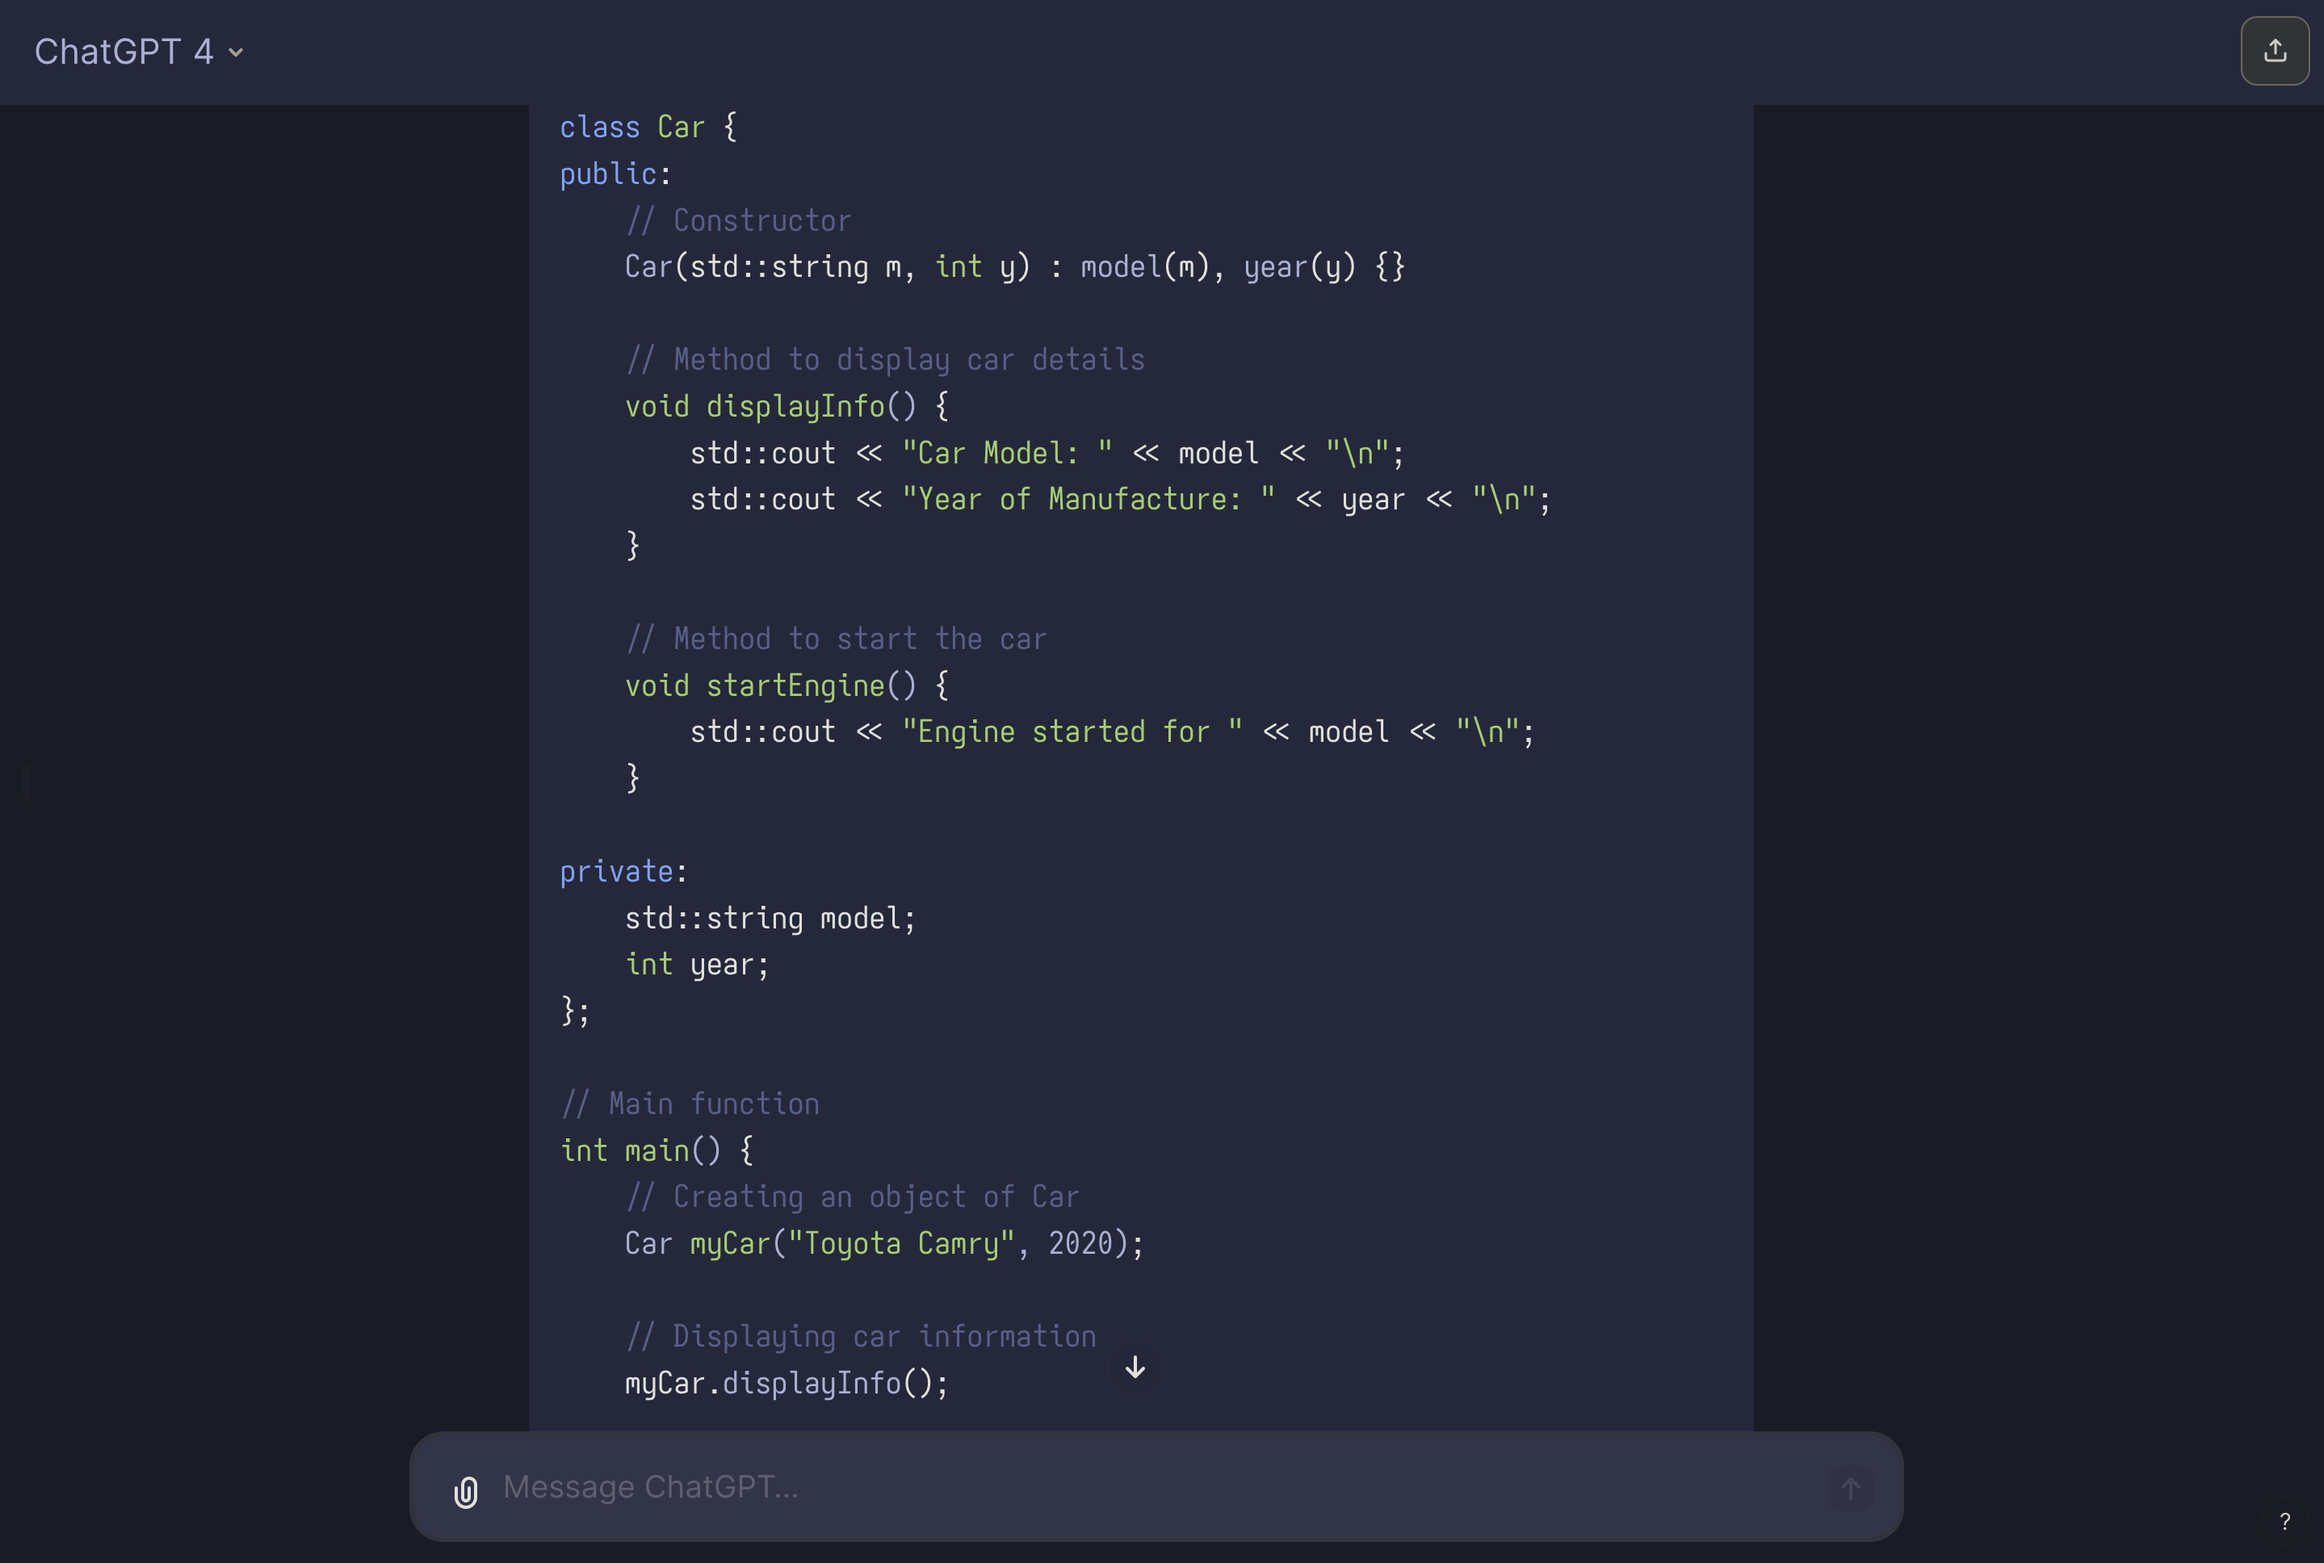
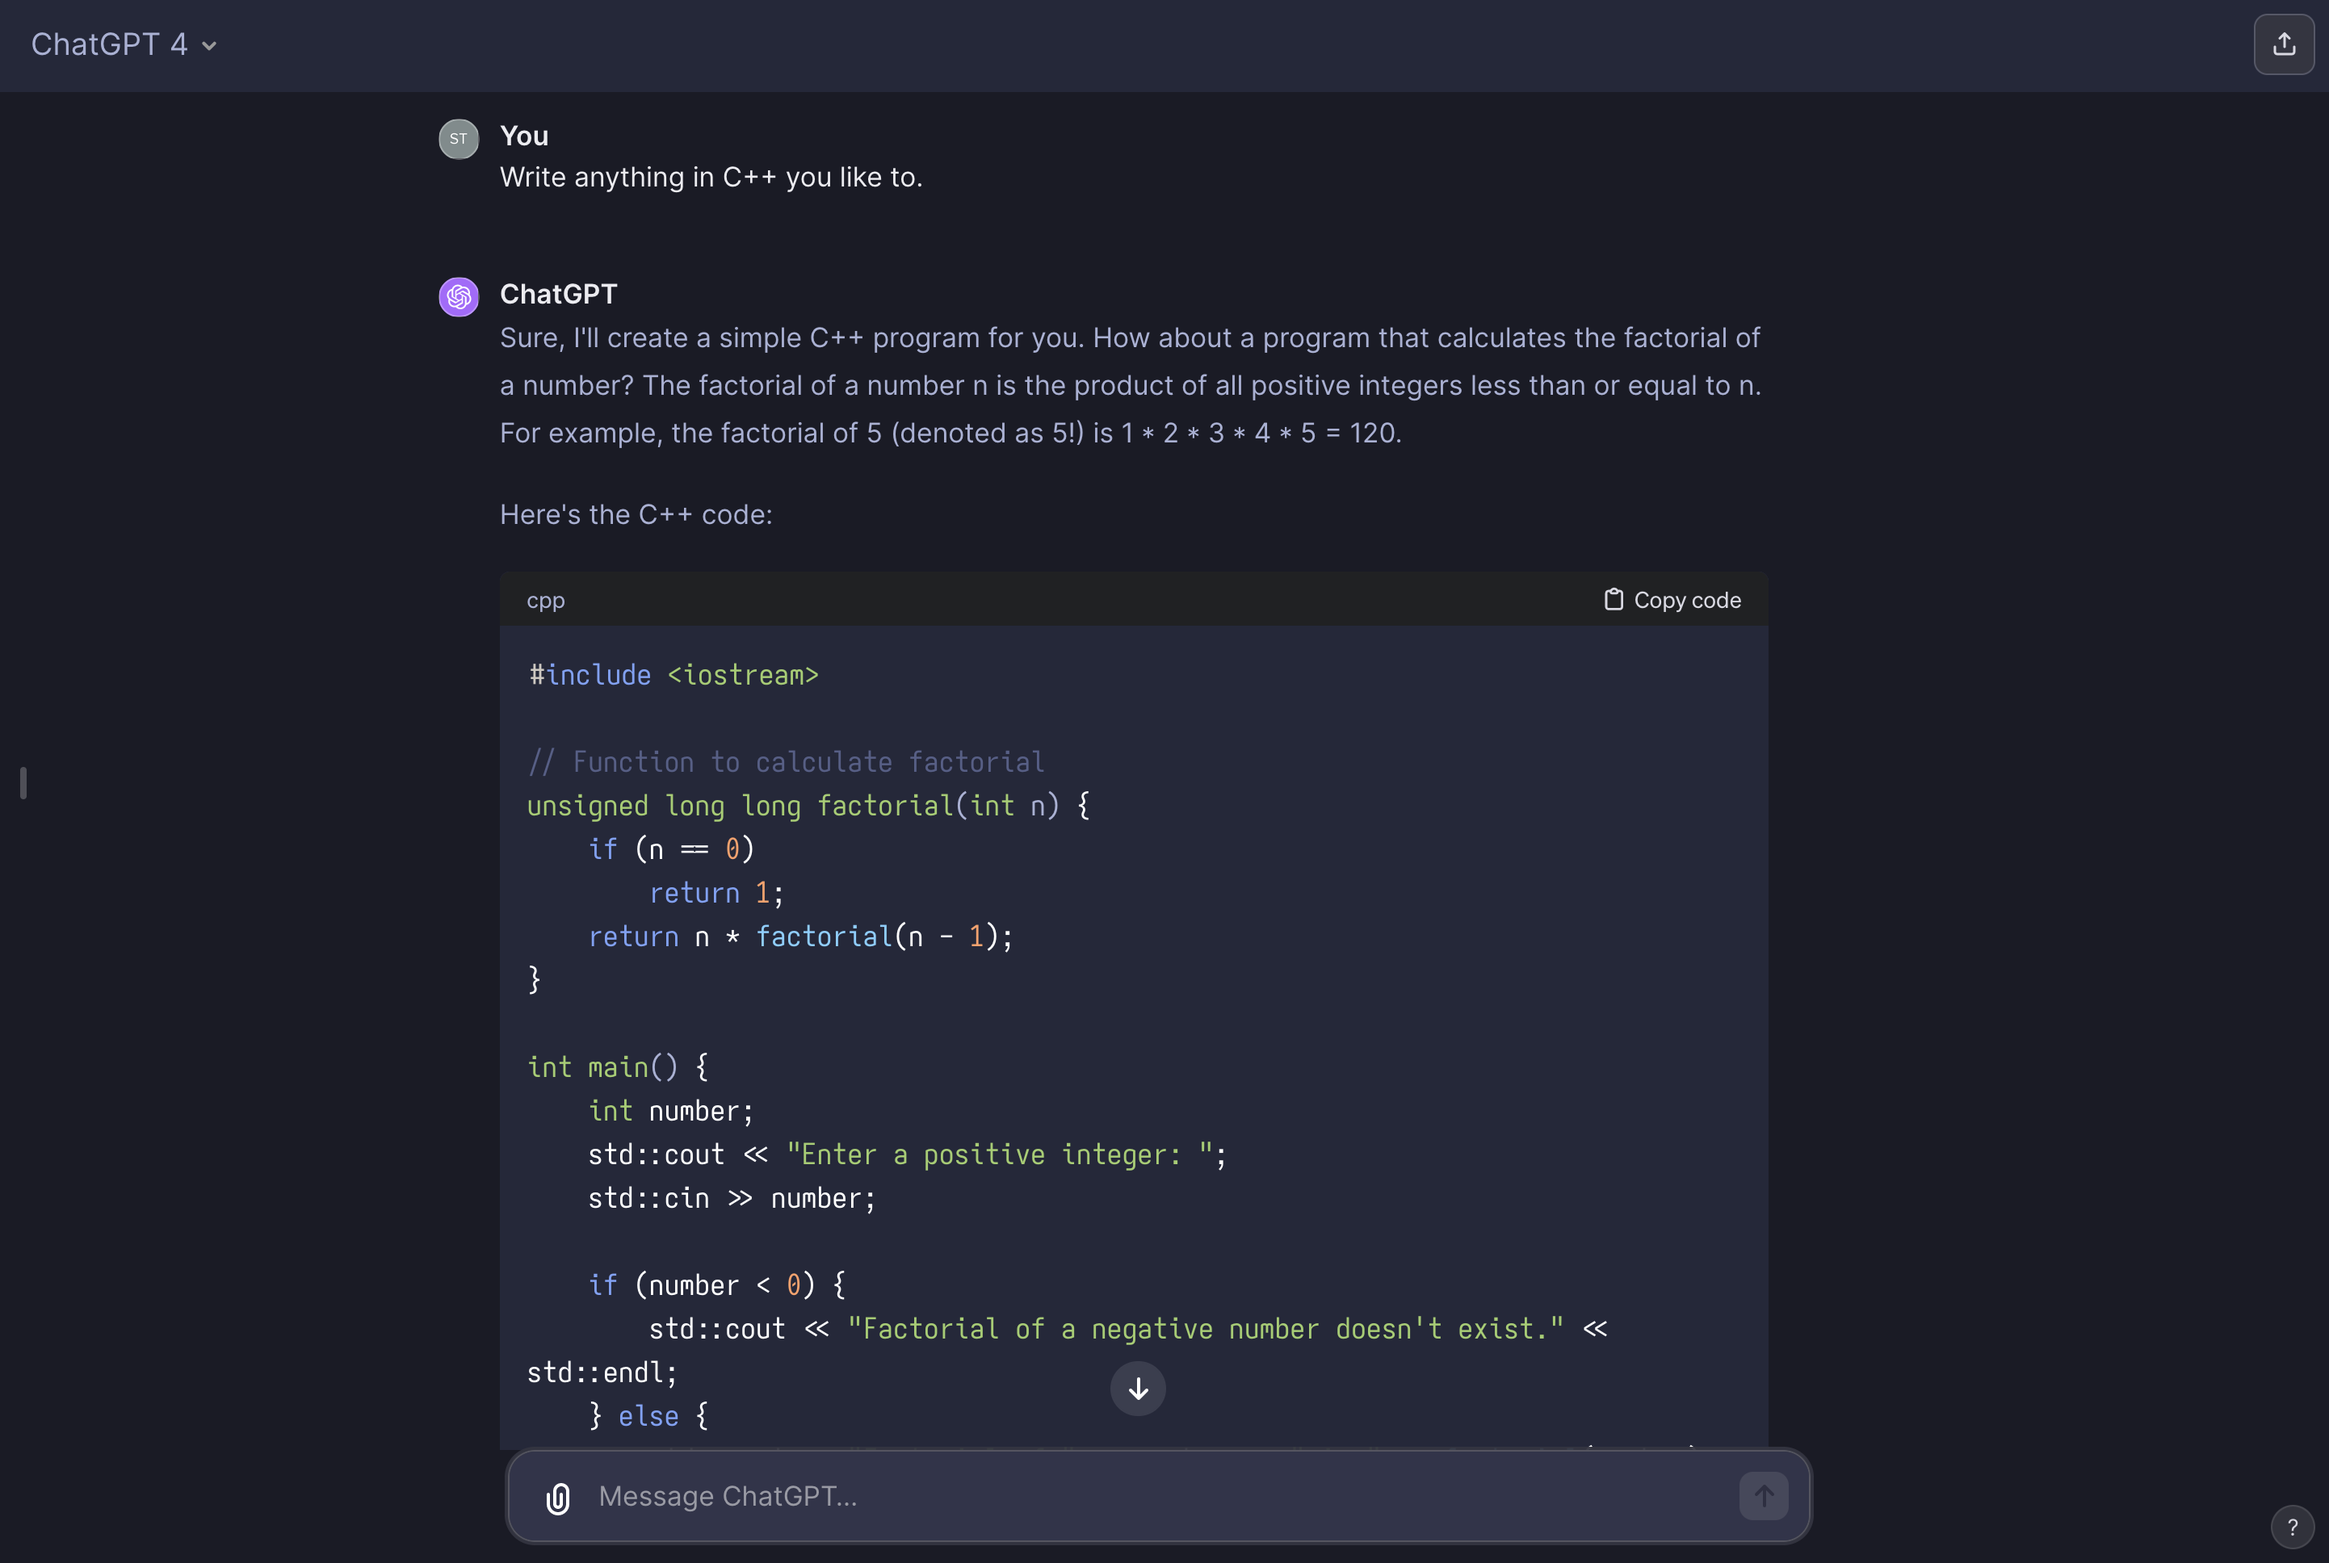
Improve layout for readability
Update README

Update layout

Update preview.png
Update preview.png

diff --git a/style.css b/style.css
@@ -8,14 +8,18 @@
 ==/UserStyle== */
 
 @-moz-document domain("chat.openai.com") {
-  body,
-  body *:not(pre):not(code):not(pre *):not(code *) {
+  :root {
     font-family: "Interop", sans-serif !important;
   }
 
-  body,
-  .Layout__Container-sc-1kb03aj-0 {
+  main {
     background-color: #1a1b26 !important;
+  }
+
+  .text-base {
+    max-width: 82%;
+    padding-left: 20px !important;
+    padding-right: 20px !important;
   }
 
   .dark\:bg-gray-800.font-semibold.p-2.bg-white.h-14.z-10.justify-between.items-center.flex.mb-1\.5.top-0.sticky {
@@ -61,7 +65,12 @@
 
   code {
     font-family: "Iosevka Comfy", monospace !important;
-    font-size: 16px !important;
+    font-size: 15px !important;
+  }
+
+  /* Wrap Text in Code Blocks */
+  .\!whitespace-pre {
+    white-space: pre-wrap !important;
   }
 
   .hljs-keyword,

diff --git a/README.md b/README.md
@@ -4,4 +4,22 @@
 
 ## Notice
 
-Before applying the style, adjusting fonts required. As default, `style.css` uses `Interop` and `Iosevka Comfy`, not commonly used ones. For that, it's enough to delete the lines containing `font-familiy:`.
+For better styles, adjusting fonts can be done. As default, `style.css` uses `Interop` and `Iosevka Comfy`. Change these with your favorite ones available locally.
+
+The following parts concern:
+
+```css
+:root {
+  font-family: "Interop", sans-serif !important;
+}
+
+/* Other stuffs... */
+
+
+code {
+  font-family: "Iosevka Comfy", monospace !important;
+  font-size: 15px !important;
+}
+
+/* Other stuffs... */
+```
